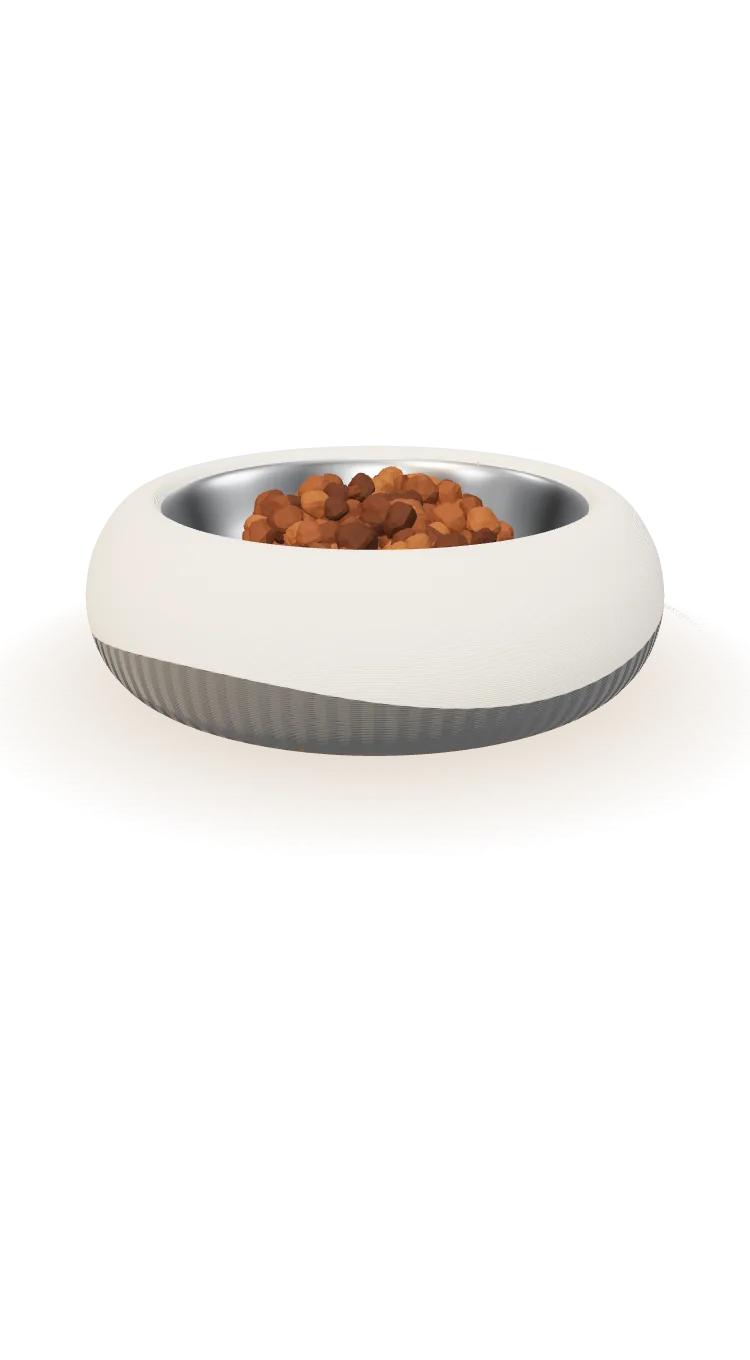
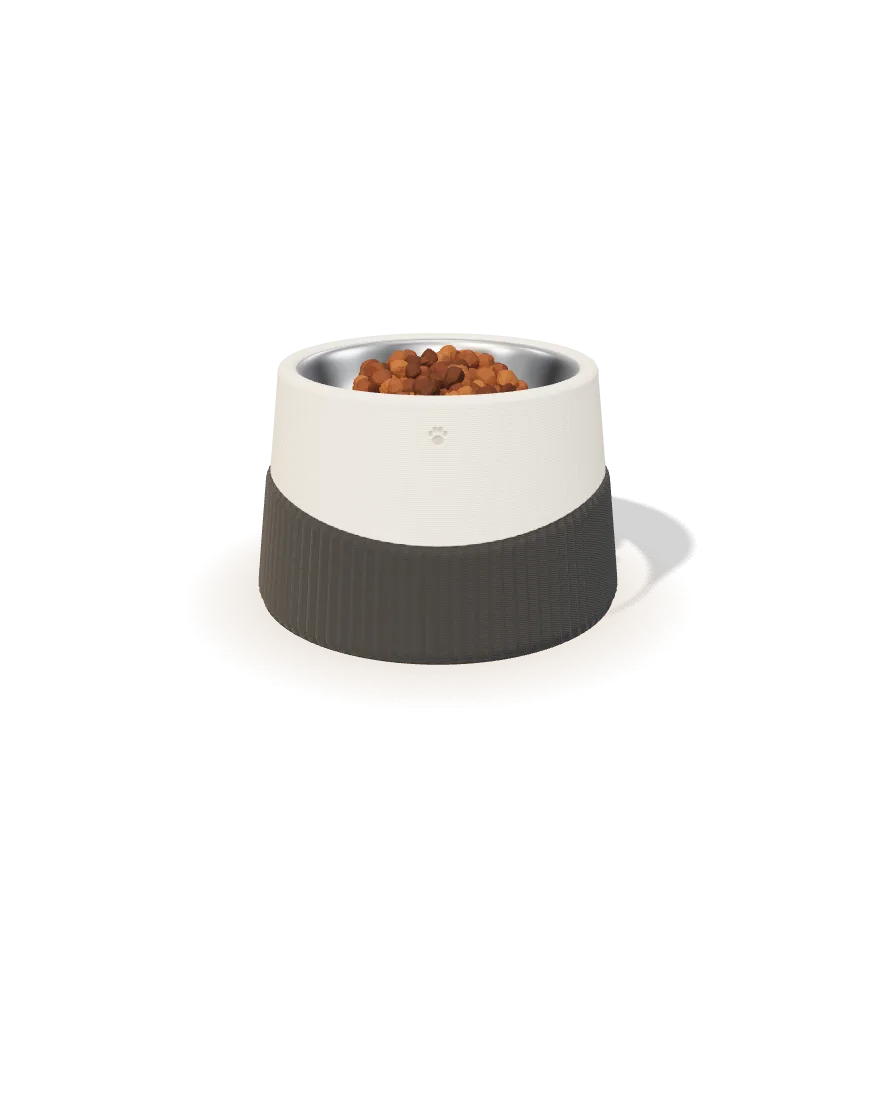
Hero: show the real Лапа bowl (ribs, wave, paw) in its five colours, CTA opens the Лапа product
- bowl3d: 'lapa' shape with modelled ribs; hero-only framing (personalize unchanged)
- stills for slow phones re-rendered from the Лапа bowl
- product page accepts ?color=
- Instagram grid row 4 and story files

Claude-Session: https://claude.ai/code/session_01FGLmkHJQ1jRMkP6nvSWdRq

Changed region(s): [[0.092, 0.2812, 0.92, 0.5938]]

diff --git a/app/utils/bowl3d.ts b/app/utils/bowl3d.ts
@@ -4,7 +4,7 @@
 import * as THREE from 'three'
 import { RoomEnvironment } from 'three/examples/jsm/environments/RoomEnvironment.js'
 
-export type ShapeId = 'wave' | 'rings' | 'raised'
+export type ShapeId = 'wave' | 'rings' | 'raised' | 'lapa'
 
 interface Shape {
   /** Outer profile (radius, height), bottom centre to inner rim. */
@@ -18,6 +18,16 @@ interface Shape {
   nameR: number
   /** Two-tone wave line height on the outer wall (null = single colour). */
   waveY: number | null
+  /** Wave: periods around the bowl and height of the swing (default 3, 0.055). */
+  wave?: { periods: number; amp: number; phase?: number }
+  /** Small engraved paw above the name: height and size. */
+  paw?: { y: number; size: number }
+  /** Raised vertical ribs below the wave (count around the bowl), modelled in the geometry. */
+  ribs?: number
+  /** Name lettering weight (default 600). */
+  nameWeight?: number
+  /** Taller bowls: lift the camera target and pull back a little. */
+  frame?: { lift: number; dist: number }
 }
 
 const SHAPES: Record<ShapeId, Shape> = {
@@ -33,21 +43,29 @@ const SHAPES: Record<ShapeId, Shape> = {
     profile: [[0, 0], [0.8, 0], [1.12, 0.01], [1.17, 0.06], [1.08, 0.5], [0.99, 0.95], [0.95, 1.02], [0.87, 1.03], [0.82, 0.97]],
     rim: 1.0, nameY: 0.7, nameSize: 0.17, nameR: 1.02, waveY: 0.42,
   },
+  // "Лапа" raised bowl: tapered body, cream top with a soft wave, ribbed lower part,
+  // a small paw over the name (povdignata-kupichka-s-ime-lapa)
+  lapa: {
+    profile: [[0, 0], [0.8, 0], [1.09, 0.004], [1.12, 0.03], [1.1, 0.25], [1.03, 0.85], [0.97, 1.36], [0.965, 1.42], [0.94, 1.45], [0.88, 1.45], [0.84, 1.41]],
+    rim: 1.43, nameY: 1.02, nameSize: 0.17, nameR: 1.02, waveY: 0.74,
+    wave: { periods: 2, amp: 0.075, phase: -Math.PI / 2 }, paw: { y: 1.25, size: 0.11 }, nameWeight: 400, ribs: 93, frame: { lift: 0.4, dist: 1.28 },
+  },
 }
 
 const ease = (t: number) => t * t * (3 - 2 * t)
 // Scoop rest position (relative to the bowl centre) and pour angle; LIP = where its rim
 // edge ends up when tilted, i.e. where the kibble leaves it.
-const SCOOP_X = 0.62, SCOOP_Y = 1.45, SCOOP_Z = 0.2, SCOOP_TILT = 1.75
-const LIP = (() => {
+// SCOOP_Y is above the bowl's rim (the wave bowl's rim is at 0.69).
+const SCOOP_X = 0.62, SCOOP_Y = 0.76, SCOOP_Z = 0.2, SCOOP_TILT = 1.75
+const lip = (rim: number) => {
   const x = -0.42, y = 0.44, c = Math.cos(SCOOP_TILT), s = Math.sin(SCOOP_TILT)
-  return { x: SCOOP_X + x * c - y * s, y: SCOOP_Y + x * s + y * c, z: SCOOP_Z }
-})()
+  return { x: SCOOP_X + x * c - y * s, y: rim + SCOOP_Y + x * s + y * c, z: SCOOP_Z }
+}
 const clamp = (v: number, a = 0, b = 1) => Math.min(b, Math.max(a, v))
 
 /** [top, bottom] colours; bottom is used below the wave line on two-tone shapes. */
 export type Colours = [string, string]
-export interface BowlOptions { colours: Colours; name: string; shape: ShapeId; kibble?: number }
+export interface BowlOptions { colours: Colours; name: string; shape: ShapeId; kibble?: number; hero?: boolean }
 
 export class BowlScene {
   renderer: THREE.WebGLRenderer
@@ -79,7 +97,9 @@ export class BowlScene {
   engrave = 1
   rotation = 0
   /** Horizontal offset of the bowl on wide screens. */
-  offsetX = 0.85
+  offsetX = 0.75
+  /** Homepage hero framing (see resize); set before the first resize via the options. */
+  heroLayout = false
   private raf = 0
   private visible = true
   private dirty = true
@@ -87,6 +107,7 @@ export class BowlScene {
 
   constructor(private host: HTMLElement, opts: BowlOptions) {
     this.opts = { kibble: 320, ...opts }
+    this.heroLayout = !!opts.hero
     this.shape = SHAPES[opts.shape]
     this.renderer = new THREE.WebGLRenderer({ antialias: true, alpha: true, powerPreference: 'high-performance' })
     this.renderer.setPixelRatio(Math.min(window.devicePixelRatio, 2))
@@ -106,13 +127,13 @@ export class BowlScene {
     sun.position.set(-3, 5, 3)
     sun.castShadow = true
     sun.shadow.mapSize.set(1024, 1024)
-    sun.shadow.camera.left = -2; sun.shadow.camera.right = 2; sun.shadow.camera.top = 2; sun.shadow.camera.bottom = -2
+    sun.shadow.camera.left = -3; sun.shadow.camera.right = 3; sun.shadow.camera.top = 3; sun.shadow.camera.bottom = -3
     sun.shadow.radius = 6
     sun.shadow.bias = -0.0015
     this.scene.add(sun, new THREE.HemisphereLight(0xfff1de, 0x8a5a3c, 0.55))
 
     // Soft contact shadow on the floor
-    const floor = new THREE.Mesh(new THREE.PlaneGeometry(8, 8), new THREE.ShadowMaterial({ opacity: 0.22 }))
+    const floor = new THREE.Mesh(new THREE.PlaneGeometry(8, 8), new THREE.ShadowMaterial({ opacity: 0.17 }))
     floor.rotation.x = -Math.PI / 2
     floor.receiveShadow = true
     this.scene.add(floor)
@@ -133,7 +154,7 @@ export class BowlScene {
     this.bumpTex = new THREE.CanvasTexture(this.bumpCanvas)
     for (const t of [this.mapTex, this.bumpTex]) { t.anisotropy = 8; t.wrapS = THREE.RepeatWrapping }
     this.shellMat = new THREE.MeshPhysicalMaterial({
-      color: '#ffffff', roughness: 0.78, sheen: 0.35, sheenRoughness: 0.8, sheenColor: new THREE.Color('#ffffff'),
+      color: '#ffffff', roughness: 0.78, sheen: 0.12, sheenRoughness: 0.8, sheenColor: new THREE.Color('#ffffff'),
       map: this.mapTex, bumpMap: this.bumpTex, bumpScale: 3,
     })
 
@@ -160,7 +181,23 @@ export class BowlScene {
   private buildBowl() {
     if (this.shell) { this.group.remove(this.shell, this.insert); this.shell.geometry.dispose(); this.insert.geometry.dispose() }
     // phiStart = PI so texture u = 0.5 faces the camera (+z): the name sits front and centre.
-    const shellGeo = new THREE.LatheGeometry(this.profilePoints(), 160, Math.PI)
+    const ribs = this.shape.ribs
+    const shellGeo = new THREE.LatheGeometry(this.profilePoints(), ribs ? ribs * 4 : 160, Math.PI)
+    if (ribs && this.shape.waveY !== null) {
+      // push the outer wall out in soft vertical flutes everywhere below the wave line
+      const pos = shellGeo.attributes.position as THREE.BufferAttribute, uv = shellGeo.attributes.uv as THREE.BufferAttribute
+      const { periods, amp, phase = 0 } = this.shape.wave ?? { periods: 3, amp: 0.055 }
+      for (let i = 0; i < pos.count; i++) {
+        const x = pos.getX(i), y = pos.getY(i), z = pos.getZ(i), r = Math.hypot(x, z), u = uv.getX(i)
+        if (r < 0.9 || y < 0.02) continue
+        const line = this.shape.waveY + amp * Math.sin(u * Math.PI * 2 * periods + phase)
+        const fade = clamp((line - 0.015 - y) / 0.03) * clamp((y - 0.02) / 0.04)
+        if (!fade) continue
+        const k = 1 + (0.022 * (0.5 + 0.5 * Math.cos(u * Math.PI * 2 * ribs)) * fade) / r
+        pos.setXYZ(i, x * k, y, z * k)
+      }
+      shellGeo.computeVertexNormals()
+    }
     this.shell = new THREE.Mesh(shellGeo, this.shellMat)
     this.shell.castShadow = true; this.shell.receiveShadow = true
 
@@ -254,7 +291,7 @@ export class BowlScene {
     const outK = ease(clamp(this.engrave / 0.6))
     const g = this.group.position
     this.scoop.visible = this.pour > 0.001 && outK < 0.999
-    this.scoop.position.set(g.x + SCOOP_X + (1 - inK) * 2.4 + outK * 2.6, g.y + SCOOP_Y + (1 - inK) * 0.4 + outK * 1.0, SCOOP_Z)
+    this.scoop.position.set(g.x + SCOOP_X + (1 - inK) * 2.4 + outK * 2.6, g.y + this.shape.rim + SCOOP_Y + (1 - inK) * 0.4 + outK * 1.0, SCOOP_Z)
     this.scoop.rotation.set(0, 0, tilt)
     // the heap empties while the kibble falls
     const n = this.scoopMound.count
@@ -277,7 +314,7 @@ export class BowlScene {
       if (t <= 0) { d.scale.setScalar(0); d.position.set(0, -10, 0) }
       else {
         // start at the scoop lip (world), expressed in the spinning bowl's local frame
-        const j = this.start[i]!, r = this.rest[i]!
+        const j = this.start[i]!, r = this.rest[i]!, LIP = lip(this.shape.rim)
         const wx = LIP.x + j.x, wz = LIP.z + j.z, cos = Math.cos(-this.group.rotation.y), sin = Math.sin(-this.group.rotation.y)
         const s = new THREE.Vector3(wx * cos + wz * sin, LIP.y + j.y, -wx * sin + wz * cos)
         const fall = t * t // gravity
@@ -318,7 +355,8 @@ export class BowlScene {
     const wave = this.shape.waveY
     if (wave !== null) {
       // soft wave line, three periods around so it tiles seamlessly
-      const line = (x: number) => cy(this.vAt(wave + 0.055 * Math.sin((x / W) * Math.PI * 2 * 3)).v)
+      const { periods, amp, phase = 0 } = this.shape.wave ?? { periods: 3, amp: 0.055 }
+      const line = (x: number) => cy(this.vAt(wave + amp * Math.sin((x / W) * Math.PI * 2 * periods + phase)).v)
       for (const [ctx, fill] of [[m, bottom], [b, '#7a7a7a']] as const) {
         ctx.beginPath(); ctx.moveTo(0, H)
         for (let x = 0; x <= W; x += 8) ctx.lineTo(x, line(x))
@@ -337,6 +375,26 @@ export class BowlScene {
     // 3D-print layer lines: fine horizontal ridges everywhere
     for (let y = 0; y < H; y += 4) { b.fillStyle = 'rgba(255,255,255,.18)'; b.fillRect(0, y, W, 2) }
 
+    // small engraved paw above the name
+    if (this.shape.paw) {
+      const { v, L } = this.vAt(this.shape.paw.y)
+      const hPx = W / (2 * Math.PI * this.shape.nameR), vPx = H / L
+      const u = this.shape.paw.size * vPx // paw height in px
+      const shade = new THREE.Color(top).multiplyScalar(0.55).getStyle()
+      for (const [ctx, fill, blur] of [[m, shade, 0], [b, '#101010', u * 0.04]] as const) {
+        ctx.save()
+        ctx.translate(W / 2, cy(v))
+        ctx.scale(hPx / vPx, 1)
+        ctx.filter = blur ? `blur(${blur}px)` : 'none'
+        ctx.fillStyle = fill
+        ctx.beginPath(); ctx.ellipse(0, u * 0.2, u * 0.3, u * 0.24, 0, 0, Math.PI * 2); ctx.fill()
+        for (const [x, y, r] of [[-0.36, -0.12, 0.12], [-0.13, -0.3, 0.13], [0.13, -0.3, 0.13], [0.36, -0.12, 0.12]]) {
+          ctx.beginPath(); ctx.ellipse(x! * u, y! * u, r! * u, r! * u * 1.15, 0, 0, Math.PI * 2); ctx.fill()
+        }
+        ctx.restore()
+      }
+    }
+
     const name = (this.opts.name || '').toUpperCase().slice(0, 10)
     const shown = name.slice(0, Math.round(name.length * clamp(this.engrave)))
     if (shown) {
@@ -348,7 +406,7 @@ export class BowlScene {
         ctx.save()
         ctx.translate(W / 2, cy(v))
         ctx.scale(hPx / vPx, 1)
-        ctx.font = `600 ${size}px "Jost Variable", Jost, system-ui, sans-serif`
+        ctx.font = `${this.shape.nameWeight ?? 600} ${size}px "Jost Variable", Jost, system-ui, sans-serif`
         ctx.letterSpacing = `${Math.round(size * 0.14)}px`
         ctx.textBaseline = 'middle'
         ctx.textAlign = 'left'
@@ -382,8 +440,9 @@ export class BowlScene {
     if (nameChanged) this.drawSurface()
     // camera glides closer and lower as the bowl fills
     const k = ease(clamp(cam))
-    this.camera.position.set(0, 3.1 - k * 1.25, 6.6 - k * 1.7)
-    this.camera.lookAt(this.group.position.x * 0.35, 0.5 + this.group.position.y * 0.5, 0)
+    const { lift, dist } = this.shape.frame ?? { lift: 0, dist: 1 }
+    this.camera.position.set(0, (3.1 - k * 1.25) * dist + lift, (6.6 - k * 1.7) * dist)
+    this.camera.lookAt(this.group.position.x * 0.35, 0.5 + lift + this.group.position.y * 0.5, 0)
     this.dirty = true
   }
 
@@ -394,14 +453,22 @@ export class BowlScene {
     if (!w || !h) return
     this.renderer.setSize(w, h, false)
     this.camera.aspect = w / h
-    // Wide screens: copy on the left, bowl on the right. Squarer and tall screens: copy above,
-    // form below, so the bowl is smaller and sits just under the middle.
     const a = w / h
-    this.camera.fov = a < 0.8 ? 56 : a <= 1.15 ? 40 : 32
-    this.group.position.x = a > 1.15 ? this.offsetX : 0
-    this.group.position.y = 0
-    if (a <= 1.15) this.camera.setViewOffset(w, h, 0, h * (a < 0.8 ? 0.1 : 0.06), w, h)
-    else this.camera.clearViewOffset()
+    if (this.heroLayout) {
+      // Homepage hero. Wide: copy on the left, bowl on the right. Squarer and tall: copy above,
+      // form below, so the bowl is smaller and sits just under the middle.
+      this.camera.fov = a < 0.8 ? 56 : a <= 1.75 ? 44 : 32
+      this.group.position.x = a > 1.75 ? this.offsetX * a : 0
+      this.group.position.y = 0
+      if (a <= 1.75) this.camera.setViewOffset(w, h, 0, h * (a < 0.8 ? 0.1 : 0.13), w, h)
+      else this.camera.clearViewOffset()
+    } else {
+      // Other pages (configurator): keep the bowl framed on narrow screens
+      this.camera.fov = a < 0.8 ? 46 : 32
+      this.group.position.x = a > 1.15 ? this.offsetX : 0
+      this.group.position.y = a < 0.8 ? -0.35 : 0
+      this.camera.clearViewOffset()
+    }
     this.camera.updateProjectionMatrix()
     this.updateScoop()
     this.dirty = true

diff --git a/app/components/PourHero.vue b/app/components/PourHero.vue
@@ -5,12 +5,14 @@
 import type { BowlScene } from '~/utils/bowl3d'
 import { canRun3D } from '~/utils/heroMode'
 
+// The bowl is the "Лапа" raised bowl (povdignata-kupichka-s-ime-lapa), in its five colours
+const PRODUCT = 'povdignata-kupichka-s-ime-lapa'
 const COLOURS: { name: string; key: string; c: [string, string] }[] = [
-  { name: 'Мляко и салвия', key: 'salvia', c: ['#efe6d6', '#8fa27c'] },
-  { name: 'Мляко и розово', key: 'rozovo', c: ['#efe6d6', '#e3a9a3'] },
-  { name: 'Мляко и теракота', key: 'terakota', c: ['#efe6d6', '#c4704f'] },
-  { name: 'Мляко и графит', key: 'grafit', c: ['#efe6d6', '#45484a'] },
-  { name: 'Мляко и какао', key: 'kakao', c: ['#efe6d6', '#6e4630'] },
+  { name: 'Мляко и графит', key: 'grafit', c: ['#efe6d6', '#292b2d'] }, // deeper in 3D: the light washes it out
+  { name: 'Пясък и какао', key: 'kakao', c: ['#d9b892', '#6e4630'] },
+  { name: 'Мляко и салвия', key: 'salvia', c: ['#efe6d6', '#8c9e7a'] },
+  { name: 'Мляко и мента', key: 'menta', c: ['#efe6d6', '#9fd3c0'] },
+  { name: 'Пясък и праскова', key: 'praskova', c: ['#d9b892', '#f0a58c'] },
 ]
 const DEMO = 'ЛУНА'
 const POUR_MS = 3400
@@ -18,9 +20,9 @@ const POUR_MS = 3400
 // Still pictures (rendered from the 3D scene). `name` is where the name sits on the bowl,
 // in image pixels: centre, available width, letter height.
 const STILLS = {
-  wide: { media: '(min-aspect-ratio: 23/20)', w: 2400, h: 1166, name: { x: 1501, y: 730, w: 233, size: 76 } },
-  mid: { media: '(min-aspect-ratio: 4/5)', w: 1125, h: 1075, name: { x: 558, y: 584, w: 173, size: 57 } },
-  tall: { media: '', w: 750, h: 1360, name: { x: 370, y: 640, w: 149, size: 49 } },
+  wide: { media: '(min-aspect-ratio: 3/2)', w: 2400, h: 1166, name: { x: 1412, y: 632, w: 176, size: 61 } },
+  mid: { media: '(min-aspect-ratio: 7/10)', w: 1522, h: 875, name: { x: 758, y: 351, w: 94, size: 34 } },
+  tall: { media: '', w: 876, h: 1120, name: { x: 435, y: 474, w: 92, size: 33 } },
 } as const
 type StillKey = keyof typeof STILLS
 
@@ -35,7 +37,7 @@ let bowl: BowlScene | null = null
 let io: IntersectionObserver | null = null
 let raf = 0
 
-const configLink = computed(() => ({ path: '/personalize', query: { name: name.value.trim() || undefined, color: colour.value || undefined } }))
+const configLink = computed(() => ({ path: `/product/${PRODUCT}`, query: { name: name.value.trim() || undefined, color: colour.value || undefined } }))
 
 watch(shownName, v => bowl?.set({ name: v }))
 watch(colour, i => bowl?.set({ colours: COLOURS[i]!.c }))
@@ -62,7 +64,7 @@ function measure() {
   box.value = { w: el.clientWidth, h: el.clientHeight }
   // same thresholds the 3D scene uses to frame the bowl
   const a = el.clientWidth / el.clientHeight
-  still.value = a > 1.15 ? 'wide' : a >= 0.8 ? 'mid' : 'tall'
+  still.value = a > 1.75 ? 'wide' : a >= 0.8 ? 'mid' : 'tall'
 }
 
 function goLite() {
@@ -98,7 +100,7 @@ onMounted(async () => {
   if (!canRun3D()) { lite.value = true; return }
   try {
     const { BowlScene } = await import('~/utils/bowl3d')
-    bowl = new BowlScene(stage.value!, { colours: COLOURS[colour.value]!.c, name: shownName.value, shape: 'wave' })
+    bowl = new BowlScene(stage.value!, { colours: COLOURS[colour.value]!.c, name: shownName.value, shape: 'lapa', hero: true })
   } catch { return goLite() }
   if (import.meta.dev) (window as unknown as { __bowl: unknown }).__bowl = bowl // dev only: still capture
   document.fonts?.ready.then(() => bowl?.set({}))
@@ -150,6 +152,7 @@ onBeforeUnmount(() => { cancelAnimationFrame(raf); ro?.disconnect(); io?.disconn
 .hero { padding: 12px; }
 .wall {
   position: relative; height: calc(100svh - var(--hero-top, 146px)); min-height: 560px; border-radius: 32px; overflow: hidden; isolation: isolate;
+  container: hero / size; /* layout follows the hero's own shape, like the 3D framing */
   /* the warm sunlit plaster wall and oak floor of the product photos */
   background:
     radial-gradient(120% 80% at 15% 10%, rgba(255, 214, 160, .55), transparent 55%),
@@ -165,7 +168,7 @@ onBeforeUnmount(() => { cancelAnimationFrame(raf); ro?.disconnect(); io?.disconn
 /* the name on the still picture, shaded like the 3D engraving */
 .engraved {
   position: absolute; translate: -50% -50%; text-align: center; white-space: nowrap; pointer-events: none;
-  font-family: var(--sans); font-weight: 600; letter-spacing: .14em; line-height: 1; text-indent: .14em;
+  font-family: var(--sans); font-weight: 400; letter-spacing: .14em; line-height: 1; text-indent: .14em;
   color: rgba(140, 124, 102, .4); text-shadow: 0 1px 0 rgba(255, 255, 255, .35), 0 -1px 0 rgba(60, 40, 20, .18);
 }
 
@@ -191,7 +194,7 @@ onBeforeUnmount(() => { cancelAnimationFrame(raf); ro?.disconnect(); io?.disconn
 .make .btn { background: var(--paper); color: var(--moss); }
 
 /* Squarer and tall screens: name at the top, bowl in the middle, form at the bottom */
-@media (max-aspect-ratio: 23/20) {
+@container hero (max-aspect-ratio: 7/4) {
   .copy, .make { right: clamp(20px, 6vw, 96px); max-width: none; }
   .copy { top: clamp(24px, 5%, 64px); }
   .copy .lead { max-width: 460px; }

diff --git a/app/pages/product/[slug].vue b/app/pages/product/[slug].vue
@@ -16,8 +16,9 @@ const size = ref<number>(defaultSize(product.value!))
 const qty = ref(1)
 const note = ref(String(route.query.name ?? '').slice(0, 10))
 const noteError = ref('')
-const colour = ref(0)
-watch(() => route.params.slug, () => { size.value = defaultSize(p.value); colour.value = 0; note.value = String(route.query.name ?? '').slice(0, 10); noteError.value = ''; active.value = isTag.value ? -1 : 0 })
+const queryColour = () => Math.min(Math.max(0, Number(route.query.color) || 0), (product.value?.colours?.length ?? 1) - 1)
+const colour = ref(queryColour())
+watch(() => route.params.slug, () => { size.value = defaultSize(p.value); colour.value = queryColour(); note.value = String(route.query.name ?? '').slice(0, 10); noteError.value = ''; active.value = isTag.value ? -1 : 0 })
 const colours = computed(() => p.value.colours ?? [p.value.colour])
 const swatch = (c: { hex: string; hex2?: string }) => c.hex2 ? `linear-gradient(135deg, ${c.hex} 50%, ${c.hex2} 50%)` : c.hex
 const cart = useCart()

diff --git a/social/texts.md b/social/texts.md
@@ -6,9 +6,12 @@
 - Категория във Facebook: **Pet Supplies** (Магазин за домашни любимци)
 
 ## Instagram био (до 150 знака)
-Купички и медальони с името на любимеца 🐾
-3D печат в България · Доставка 1–3 дни
+Купички, лъжички и медальони с името на любимеца 🐾
+Изработени в България · Доставка 1–3 дни
+💬 Поръчки и в лични съобщения
 👇 Създай своята
+
+Без адрес в профила (не е физически магазин).
 
 Линк в биото: https://boop.bg/personalize
 
